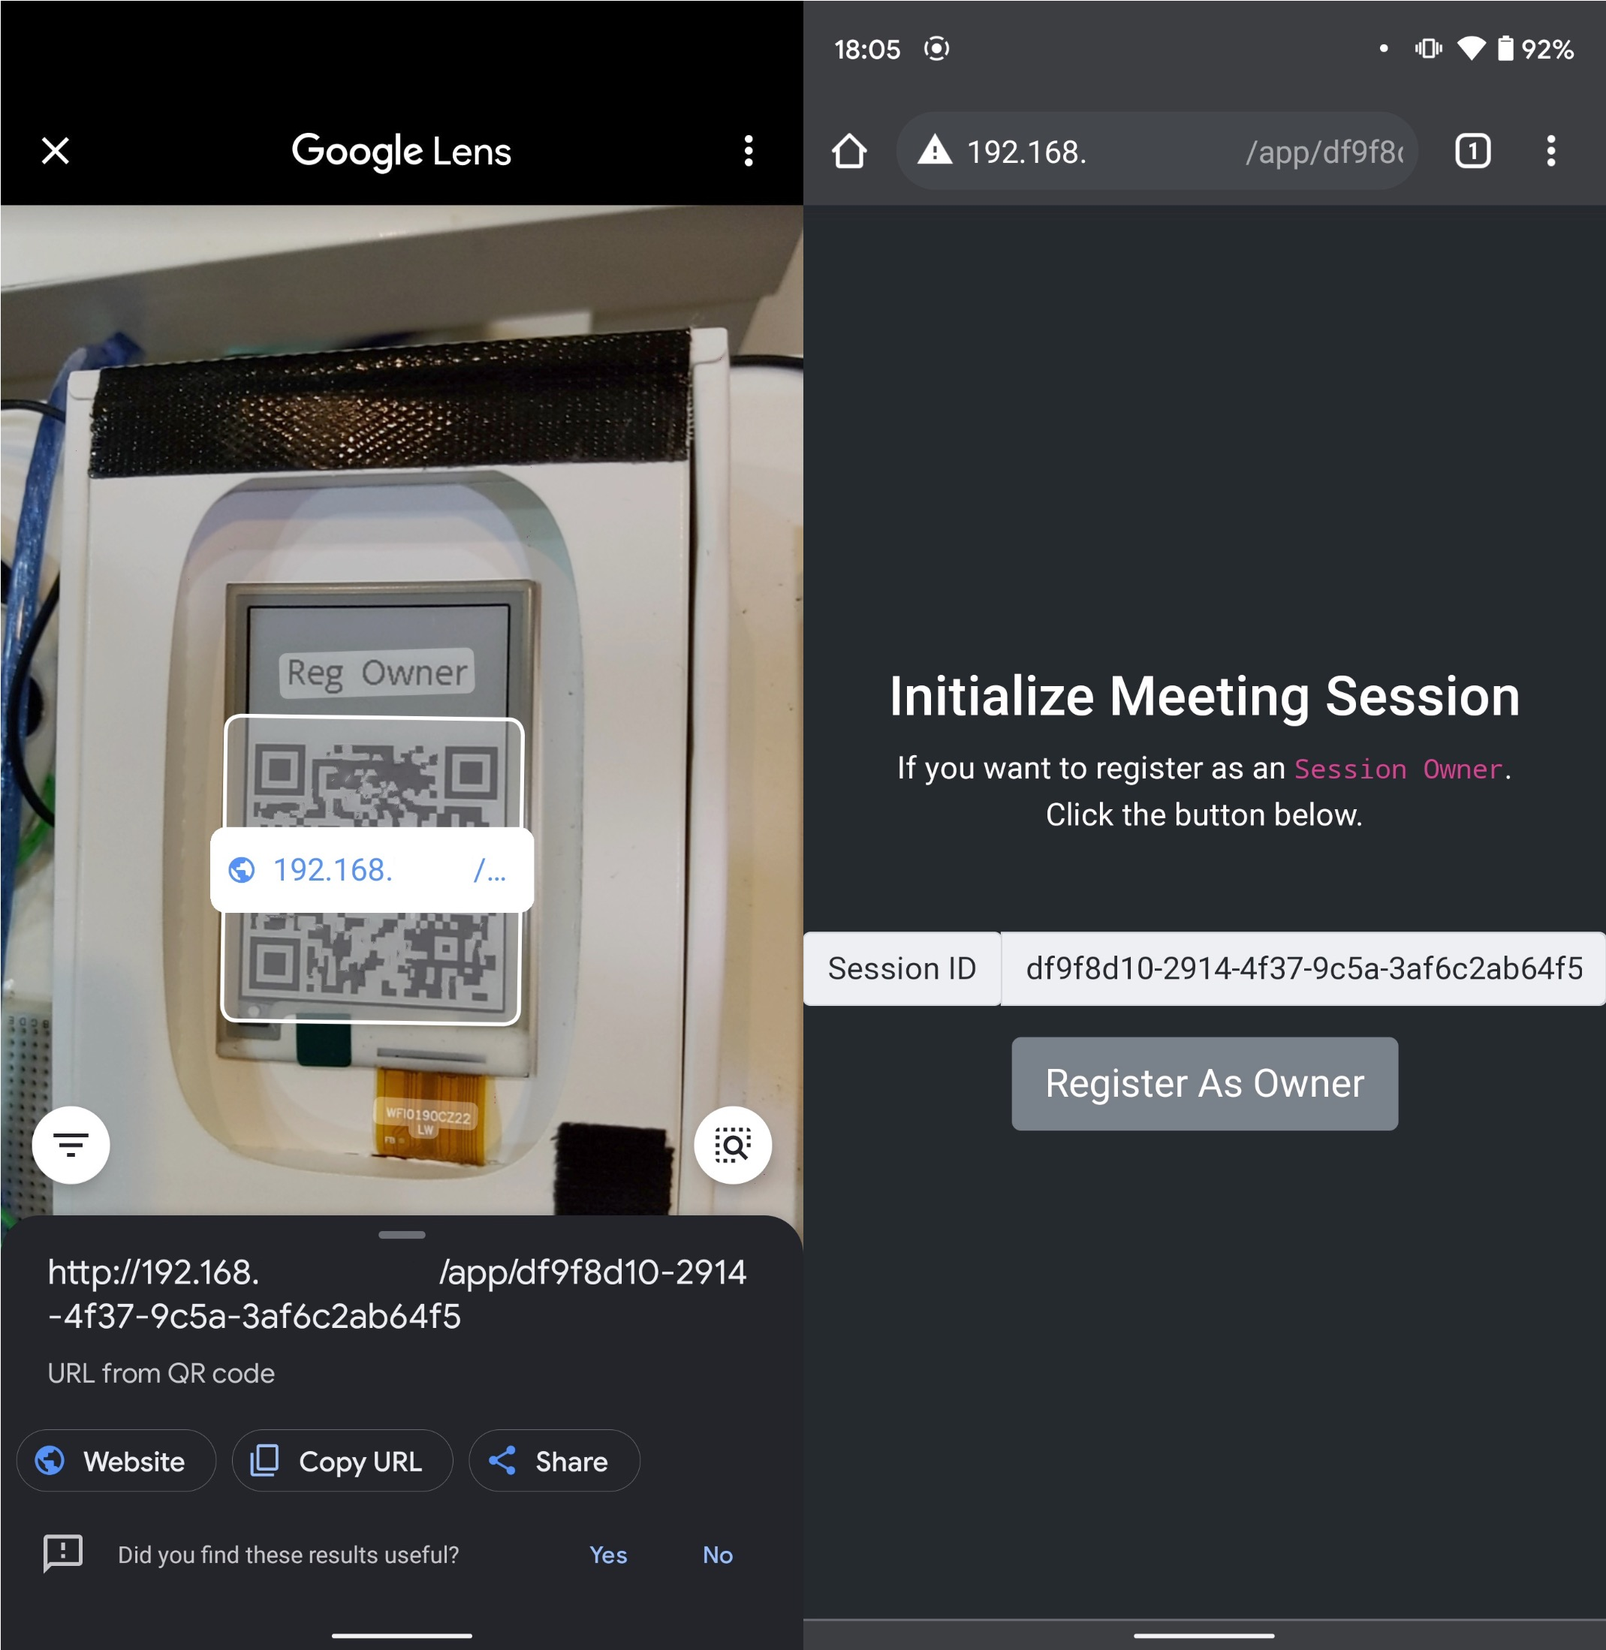
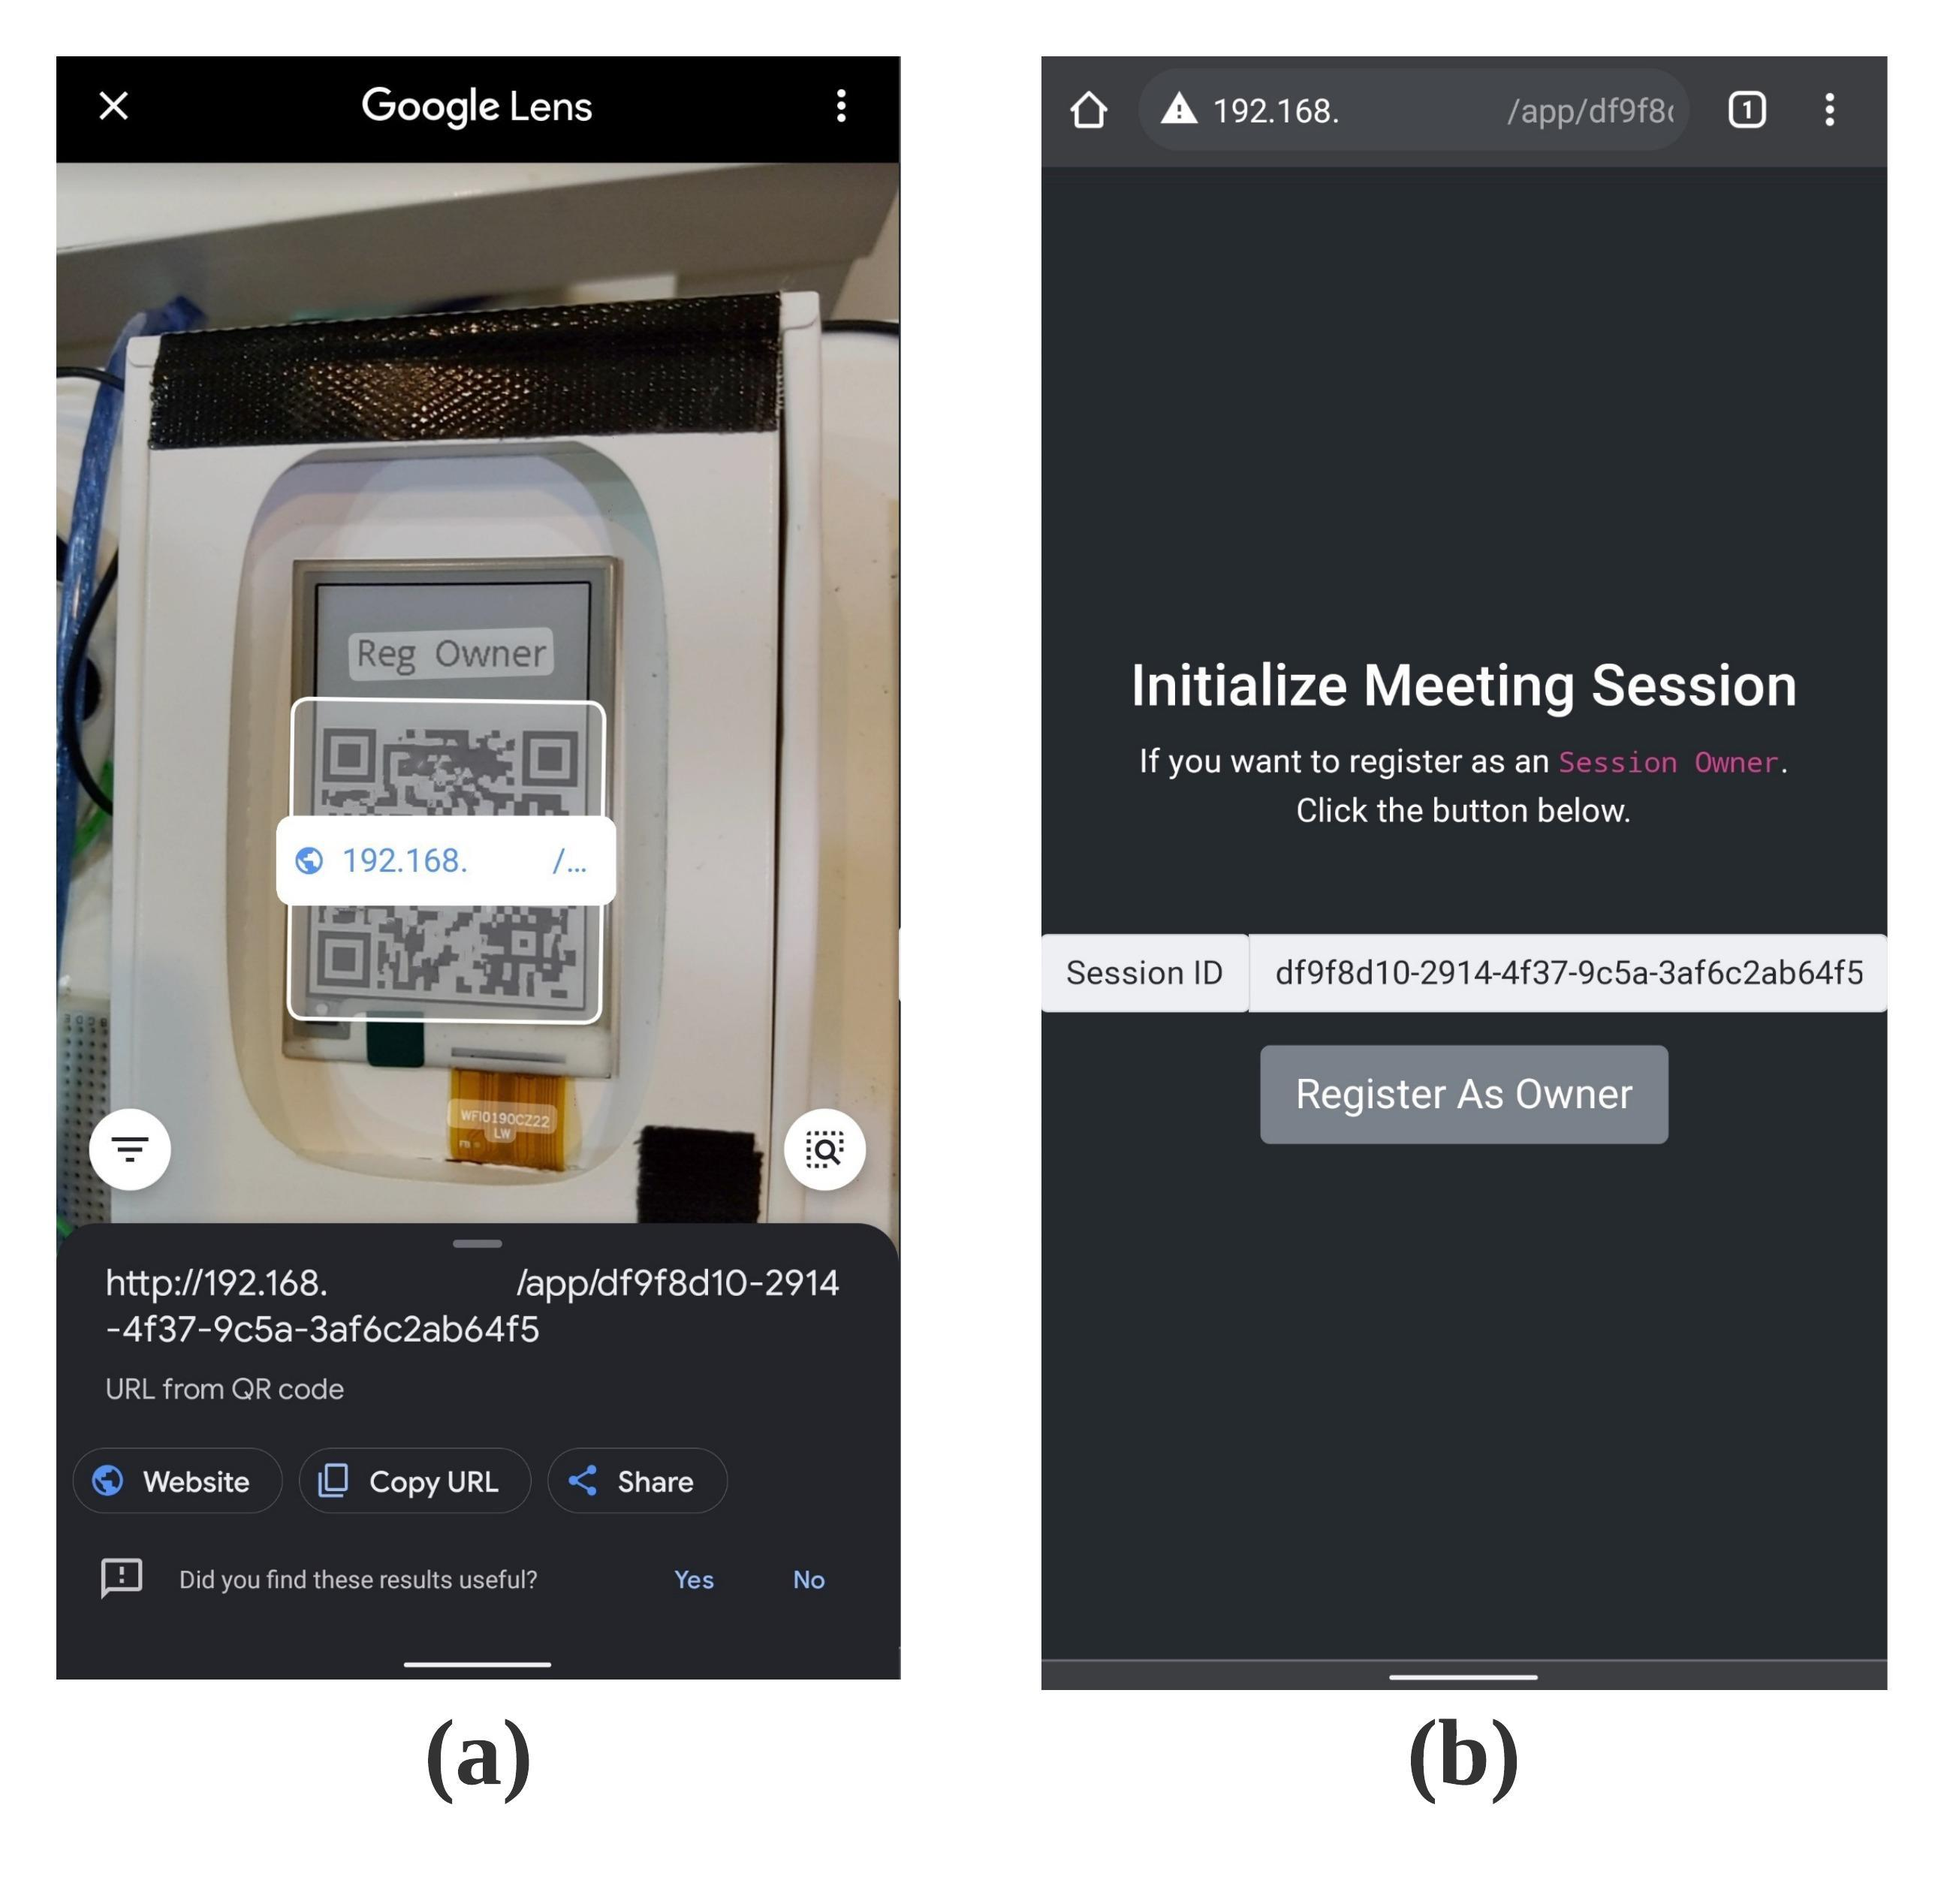
fix: app fig abc

diff --git a/thesis/contents/chapter04.tex b/thesis/contents/chapter04.tex
@@ -74,9 +74,9 @@
 
 \subsection{解封伺服器}\label{subsec:impl-psu}
 
-    本研究所設計之系統中解封伺服器的服務介面 RESTful\cite{fielding2000architectural} API 組成，
-包含數個 API 端點，使用 Golang 搭配 Gin 網頁框架實作。
-系統後端組件包含一資料庫 PostgreSQL 13 作為資料關聯綁定以及儲存的媒介；
+    本研究所設計之系統中解封伺服器的服務介面由 RESTful\cite{fielding2000architectural} API 組成。
+解封伺服器 \DEFserver 中包含6個 API 端點，使用 Golang 搭配 Gin 網頁框架實作。
+系統後端解決方案技術架構包含一資料庫 PostgreSQL 13 作為資料關聯綁定以及儲存的媒介；
 包含 Docker 容器化執行引擎，用於封裝主動式噪音消除的 Python3 執行環境；
 各 API 端點說明如下。
 
@@ -192,45 +192,46 @@
 會談主持者透過掃描會談終端的電子紙螢幕上顯示的 QRCode 取得資源位置，接著向解封伺服器 \DEFserver 請求註冊，
 註冊成功則成為此次會談的會談主持者，並取得代表會談主持者身份的私密金鑰。
 如圖 \ref{fig:app-1} \nameref{fig:app-1}，
-圖 \ref{fig:app-1} 左圖為掃描 QRCode 使用者介面，右圖為的會談主持者註冊使用者介面。
+圖 \ref{fig:app-1} (a) 為掃描 QRCode 使用者介面，
+圖 \ref{fig:app-1} (b) 為的會談主持者註冊使用者介面。
 
 \begin{figure}[H]
     \centering
-    \includegraphics[width=0.5\textwidth]{app-1}
+    \includegraphics[width=0.6\textwidth]{app-1}
     \caption{行動應用程式會談初始化使用者介面}\label{fig:app-1}
 \end{figure}
 
     在會談對話結束後，會談主持者欲取得當時會談的有效聲音紀錄，須先授權解封伺服器 \DEFserver。
 此時會談主持者向解封伺服器 \DEFserver 傳送授權解封聲音會談記錄請求。
-如圖 \ref{fig:app-2} \nameref{fig:app-2}(左一)。
+如圖 \ref{fig:app-2} \nameref{fig:app-2} (a)。
 
     解封伺服器 \DEFserver 收到授權解封聲音會談記錄請求後，即依據會談主持者的唯一識別碼 \DEFownerID，
 回覆屬於會談主持者的受加密保護的授權金鑰 \DEFakEnc 請會談主持者簽署授權。
-如圖 \ref{fig:app-2} \nameref{fig:app-2}的(中)。
+如圖 \ref{fig:app-2} \nameref{fig:app-2} (b)。
 並透過代表會談主持者身份的私密金鑰，證明會談主持者的身份與授權解封伺服器。
 會談主持者的私密金鑰 \DEFprivateKey，透過非對稱式加密演算法之解密函數 \DEFfuncDecSK{}，
 將受加密保護的授權金鑰 \DEFakEnc 解密，接著使用同一會談主持者的私密金鑰 \DEFprivateKey，
 透過數位簽章演算法簽之簽名函數 \DEFfuncSignSK{}。
-如圖 \ref{fig:app-2} \nameref{fig:app-2}(右一)。
+如圖 \ref{fig:app-2} \nameref{fig:app-2} (c)。
 
 \begin{figure}[H]
     \centering
-    \includegraphics[width=0.75\textwidth]{app-2}
+    \includegraphics[width=0.9\textwidth]{app-2}
     \caption{行動應用程式會談主持者授權解封伺服器使用者介面}\label{fig:app-2}
 \end{figure}
 
     在會談主持者成功授權解封伺服器 \DEFserver 後，向解封伺服器發起請求取得有效之會談聲音記錄。
-如圖 \ref{fig:app-3} \nameref{fig:app-3}(右一)。
+如圖 \ref{fig:app-3} \nameref{fig:app-3} (a)。
 
     此時封伺服器將受加密保護的純噪音之聲音記錄解密，
 與含有噪音的受干擾會談聲音記錄透過聲音樣本的離散時間誤差推估函數與自適應噪音消除，還原獲得有效的會談聲音記錄。
-執行過程中，如圖 \ref{fig:app-3} \nameref{fig:app-3}的(中)。
+執行過程中，如圖 \ref{fig:app-3} \nameref{fig:app-3} (b)。
 執行完成後，最終使會談主持者取得此有效之會談聲音記錄。
-如圖 \ref{fig:app-3} \nameref{fig:app-3}(右一)。
+如圖 \ref{fig:app-3} \nameref{fig:app-3} (c)。
 
 \begin{figure}[H]
     \centering
-    \includegraphics[width=0.75\textwidth]{app-3}
+    \includegraphics[width=0.9\textwidth]{app-3}
     \caption{行動應用程式取得會談聲音記錄使用者介面}\label{fig:app-3}
 \end{figure}
 
